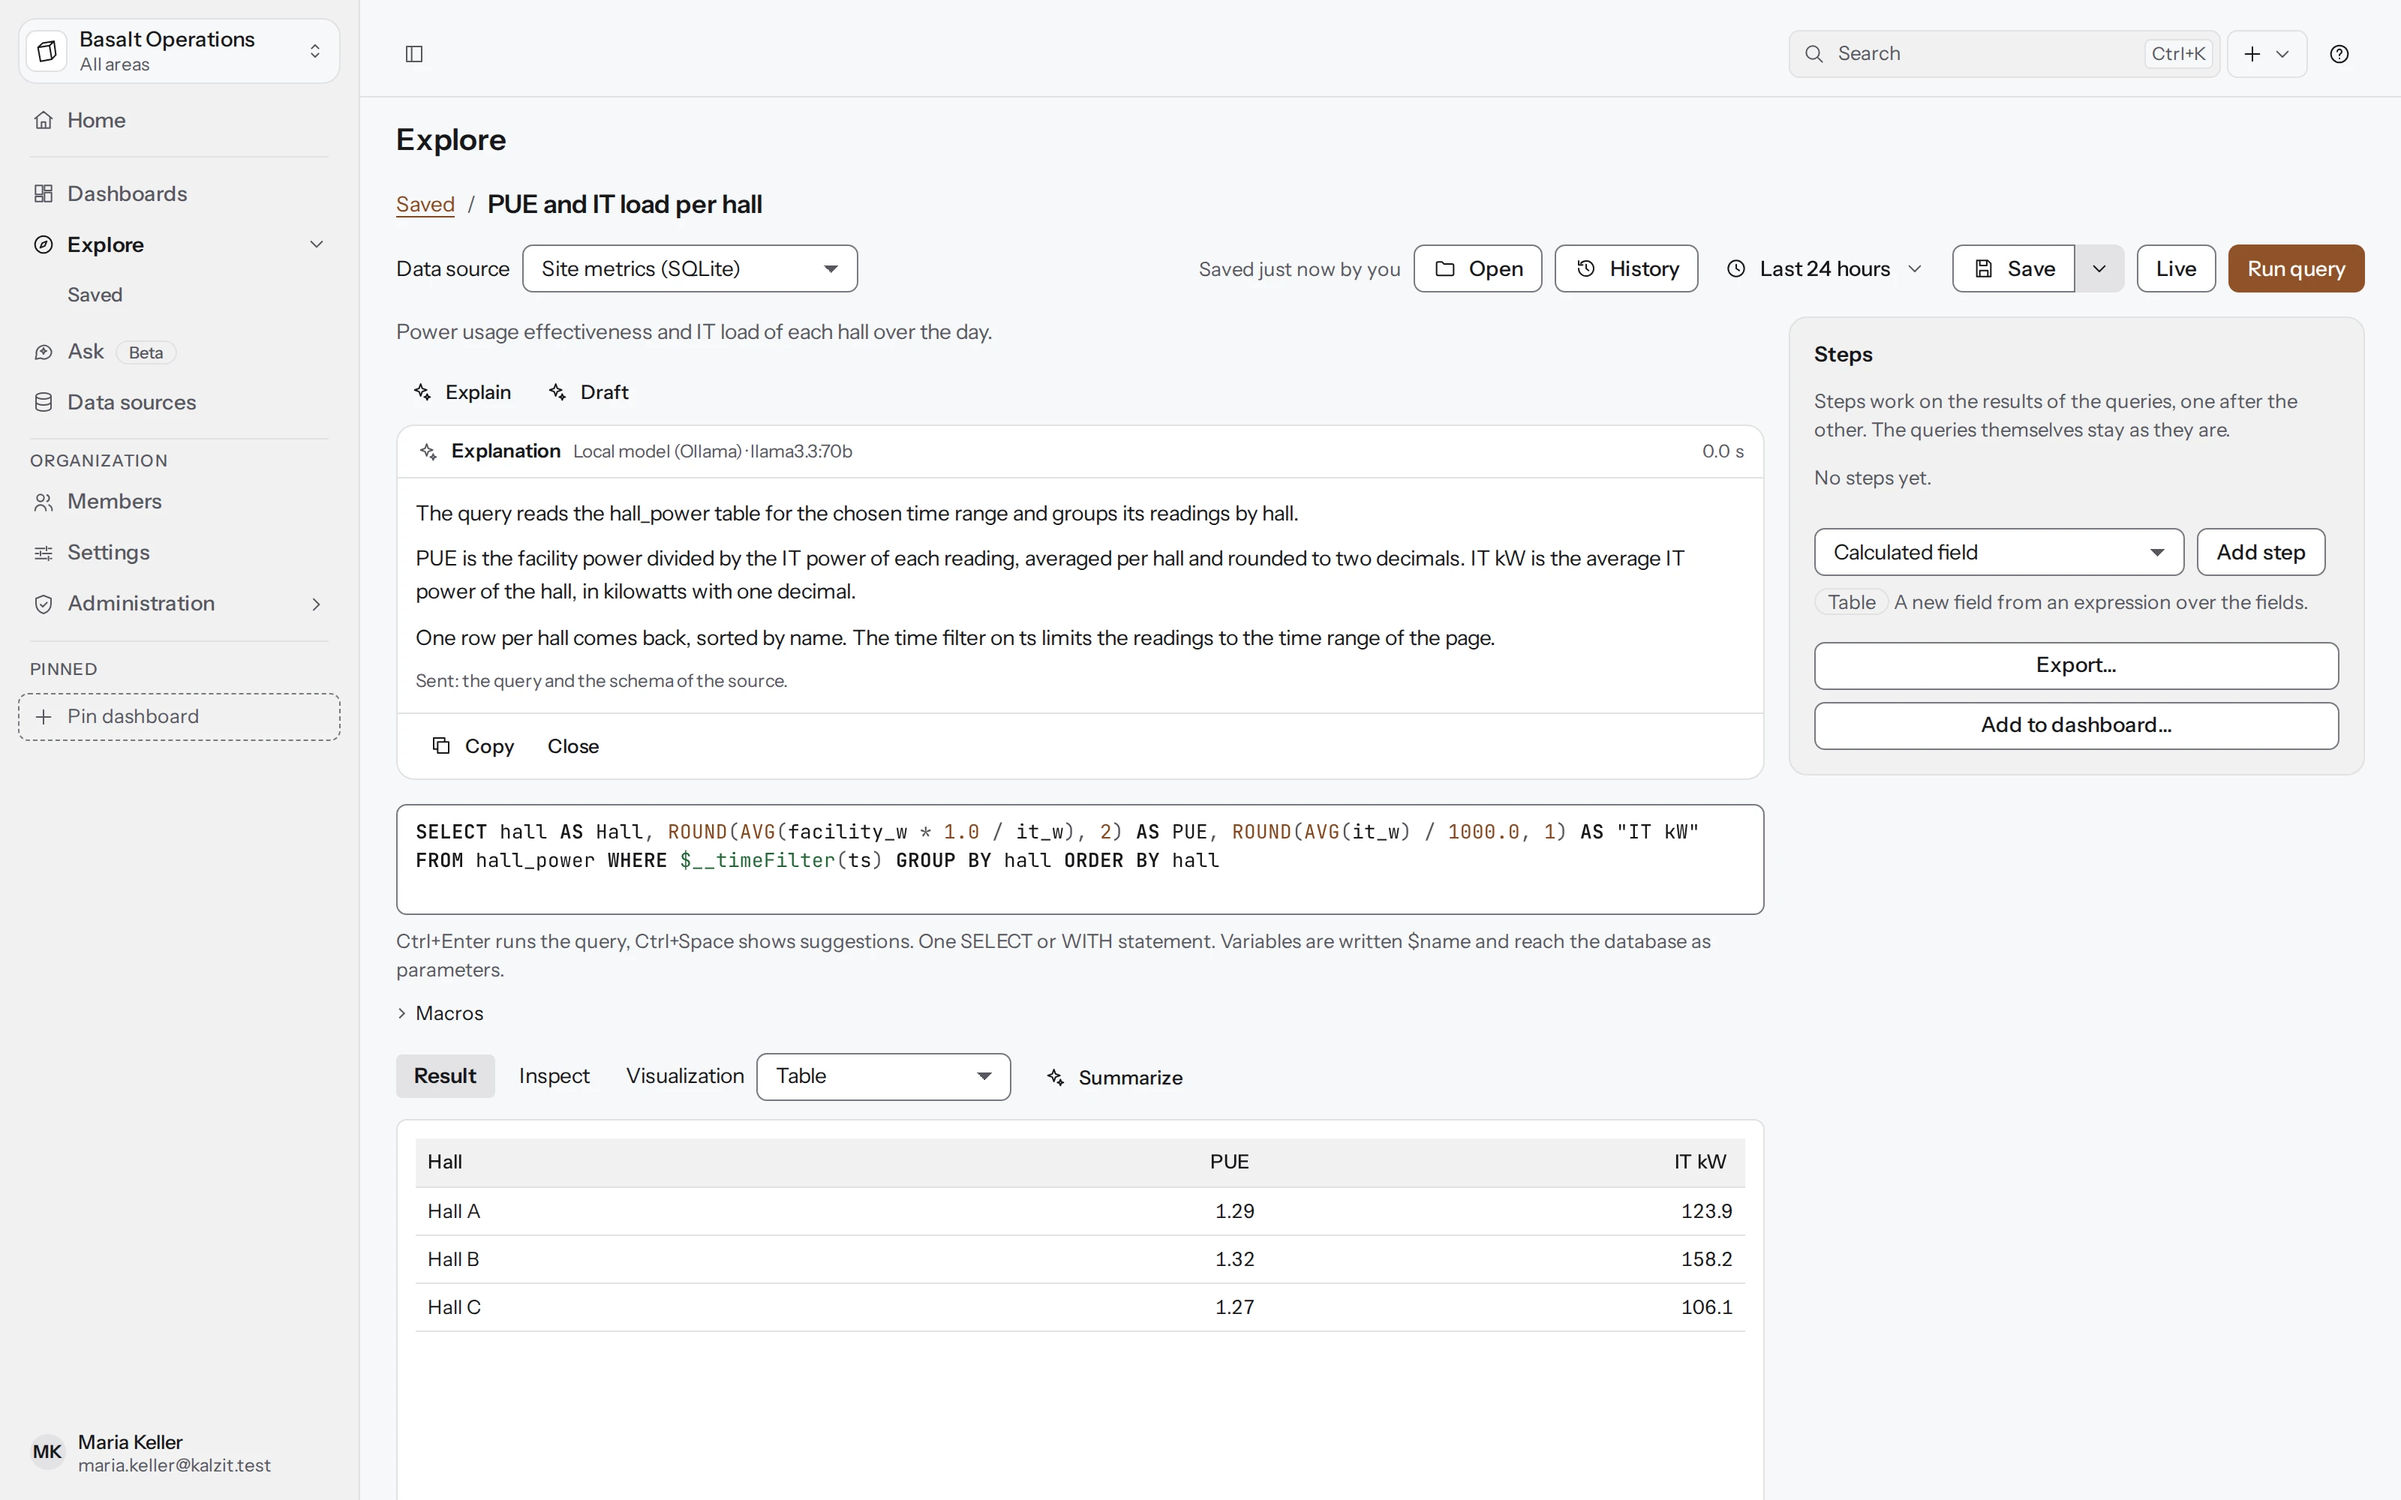
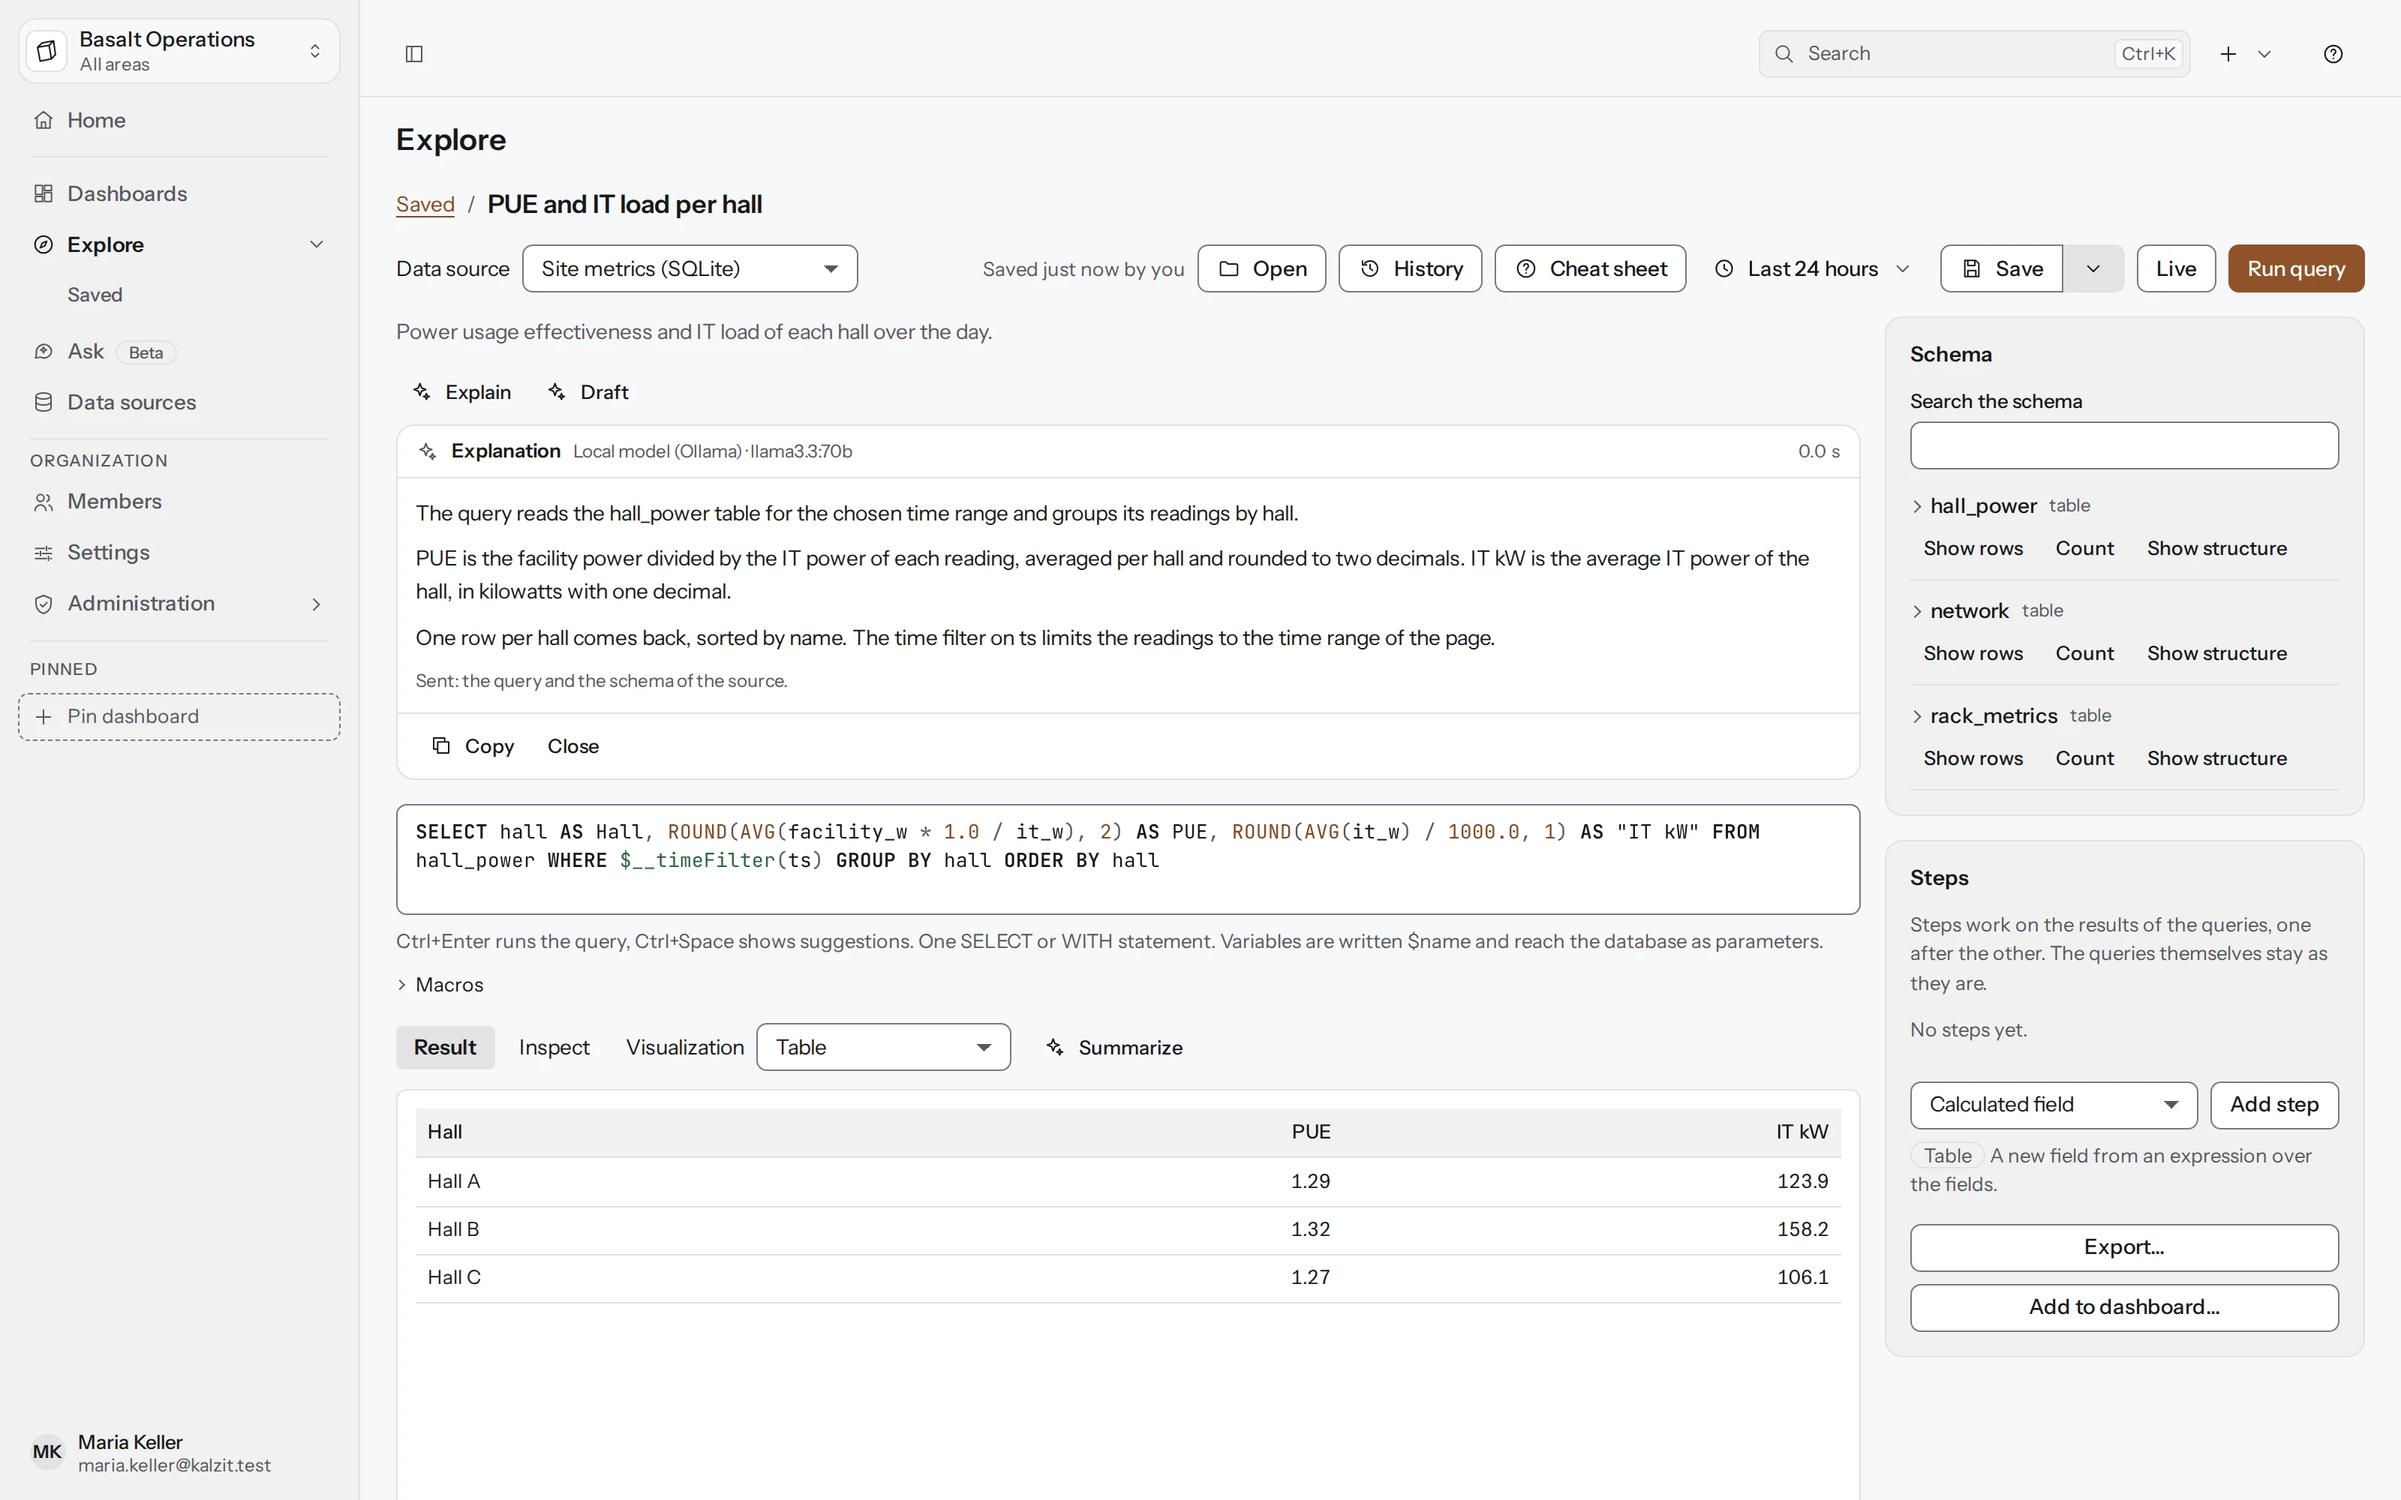
Gallery renders of Explore with the guidance; cheat sheet scene shows a table

diff --git a/ui/e2e/gallery/gallery.shots.ts b/ui/e2e/gallery/gallery.shots.ts
@@ -1373,6 +1373,9 @@ for (const scheme of SCHEMES) {
     const result = page.getByRole("region", { name: t("explore.result") }).first();
     await expect(result.getByLabel(t("explore.visualization"))).toBeVisible();
     await expect(result).toHaveAttribute("aria-busy", "false");
+    // The newest rows of all racks share a few moments: a table reads them better than a chart.
+    await result.getByLabel(t("explore.visualization"), { exact: true }).selectOption("table");
+    await expect(result.getByRole("table")).toBeVisible();
     // The tip after the first result, and the cheat sheet from the keyboard.
     await expect(page.getByRole("note", { name: t("help.tip.label") })).toBeVisible();
     await page.keyboard.press("Shift+F1");
